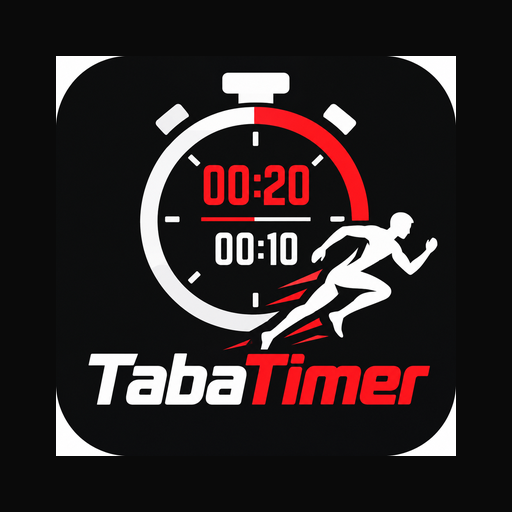
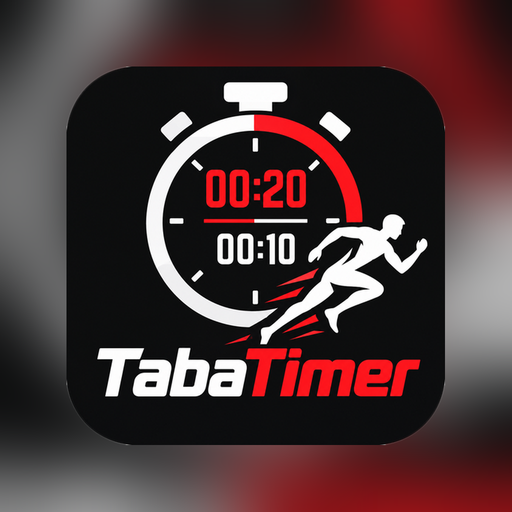
Icônes d'installation détourées (fond transparent) + maskable, manifeste corrigé
Claude-Session: https://claude.ai/code/session_01DWMzvDjuQqdn6i5FnQMur8

diff --git a/sw.js b/sw.js
@@ -1,4 +1,4 @@
-const V='tabatimer-v7',F=['footer.js','nouveautes.js','nouveautes.json','./','./index.html','./manifest.webmanifest','./icons/icon-192.png','./icons/icon-512.png','./icons/icon-maskable-512.png','./icons/apple-touch-icon.png','./icons/favicon.png'];
+const V='tabatimer-v8',F=['footer.js','nouveautes.js','nouveautes.json','./','./index.html','./manifest.webmanifest','./icons/icon-192.png','./icons/icon-512.png','./icons/icon-maskable-512.png','./icons/apple-touch-icon.png','./icons/favicon.png'];
 self.addEventListener('install',e=>{e.waitUntil(caches.open(V).then(c=>c.addAll(F)));self.skipWaiting()});
 self.addEventListener('activate',e=>{e.waitUntil(caches.keys().then(k=>Promise.all(k.filter(x=>x!==V).map(x=>caches.delete(x)))));self.clients.claim()});
 self.addEventListener('fetch',e=>{if(e.request.method!=='GET')return;e.respondWith(caches.match(e.request).then(r=>r||fetch(e.request).then(n=>{const c=n.clone();caches.open(V).then(x=>x.put(e.request,c));return n}).catch(()=>caches.match('./index.html'))))});

diff --git a/index.html b/index.html
@@ -7,7 +7,7 @@
 <title>TabaTimer</title>
 <link rel="manifest" href="manifest.webmanifest">
 <link rel="icon" href="icons/favicon.png">
-<link rel="apple-touch-icon" href="icons/apple-touch-icon.png">
+<link rel="apple-touch-icon" href="icons/icon-maskable-192.png">
 <meta name="apple-mobile-web-app-capable" content="yes">
 <style>
 :root{--bg:#0a0a0a;--card:#161616;--card2:#202020;--line:#2c2c2c;--tx:#f5f5f5;--mut:#9a9a9a;--red:#ff1a1f;font-family:"Segoe UI",system-ui,-apple-system,Roboto,Helvetica,Arial,sans-serif}
